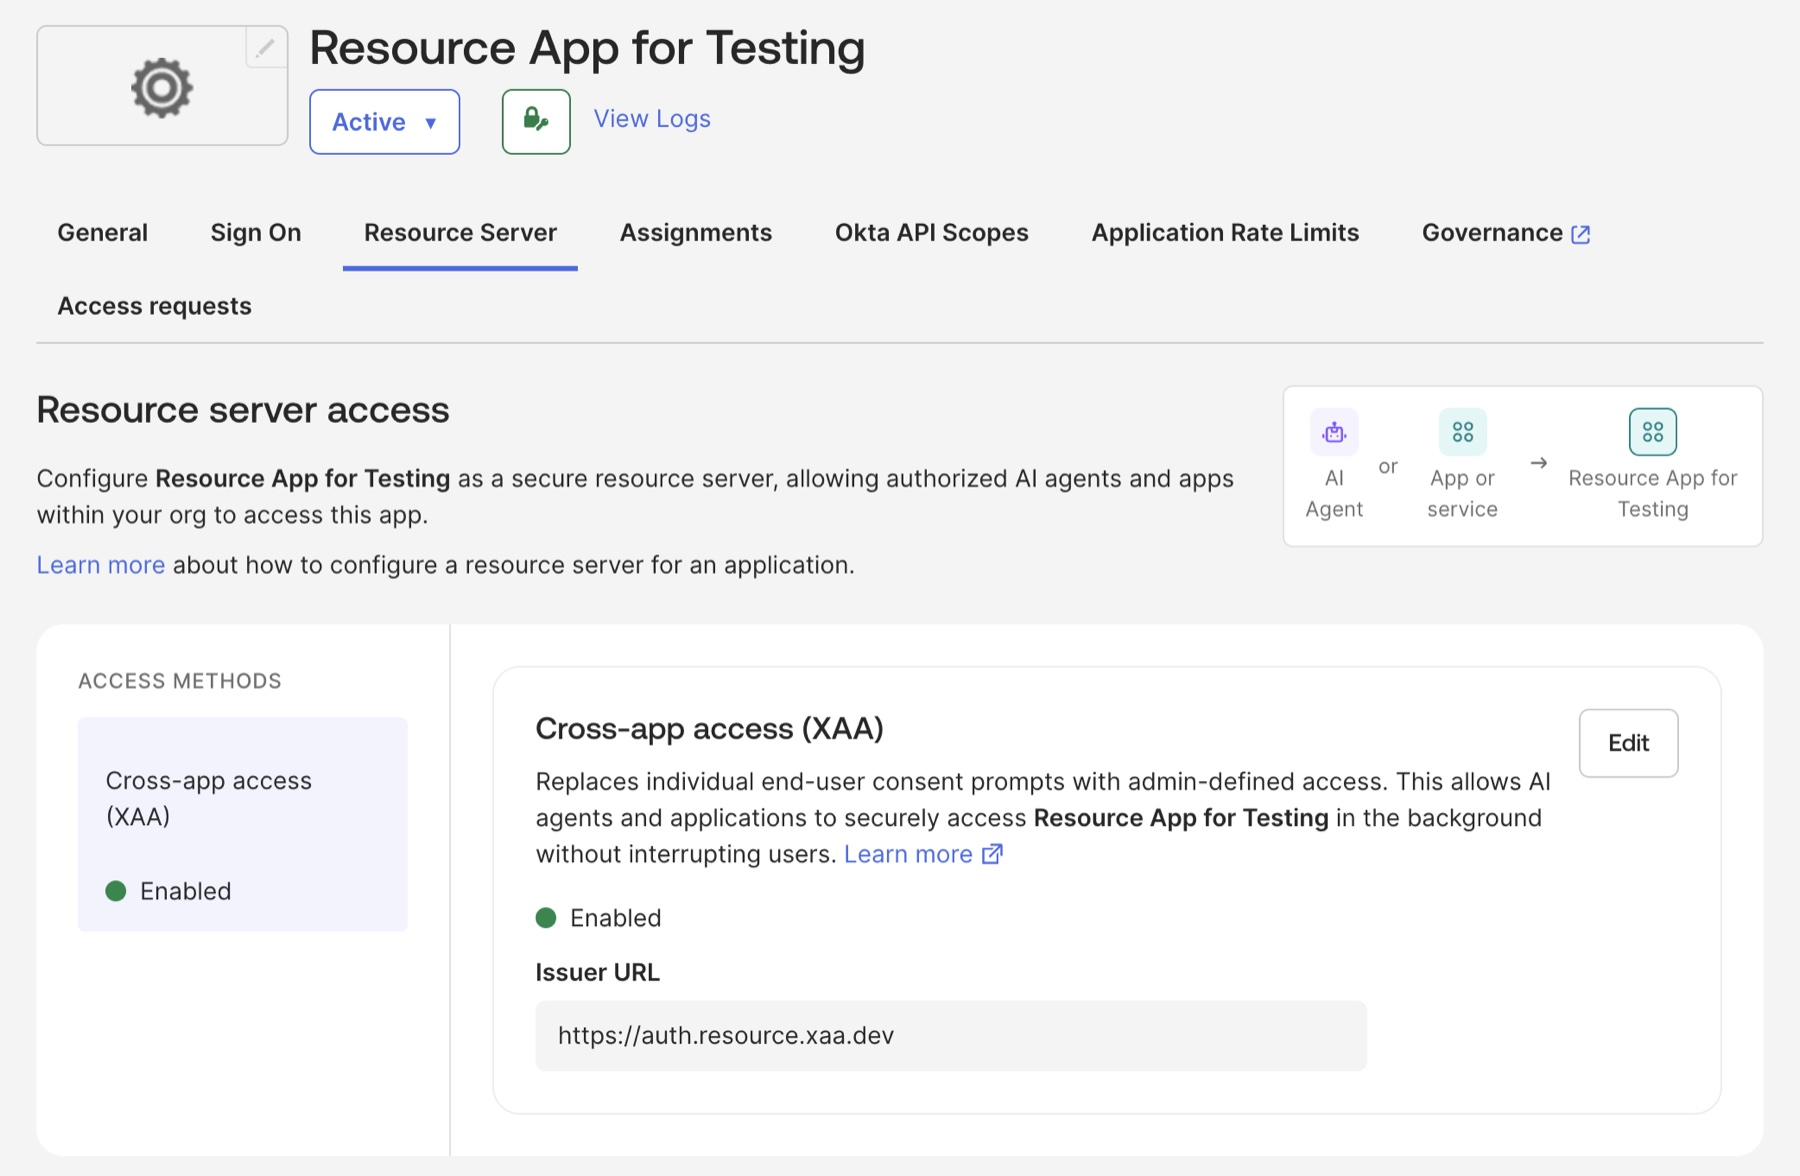
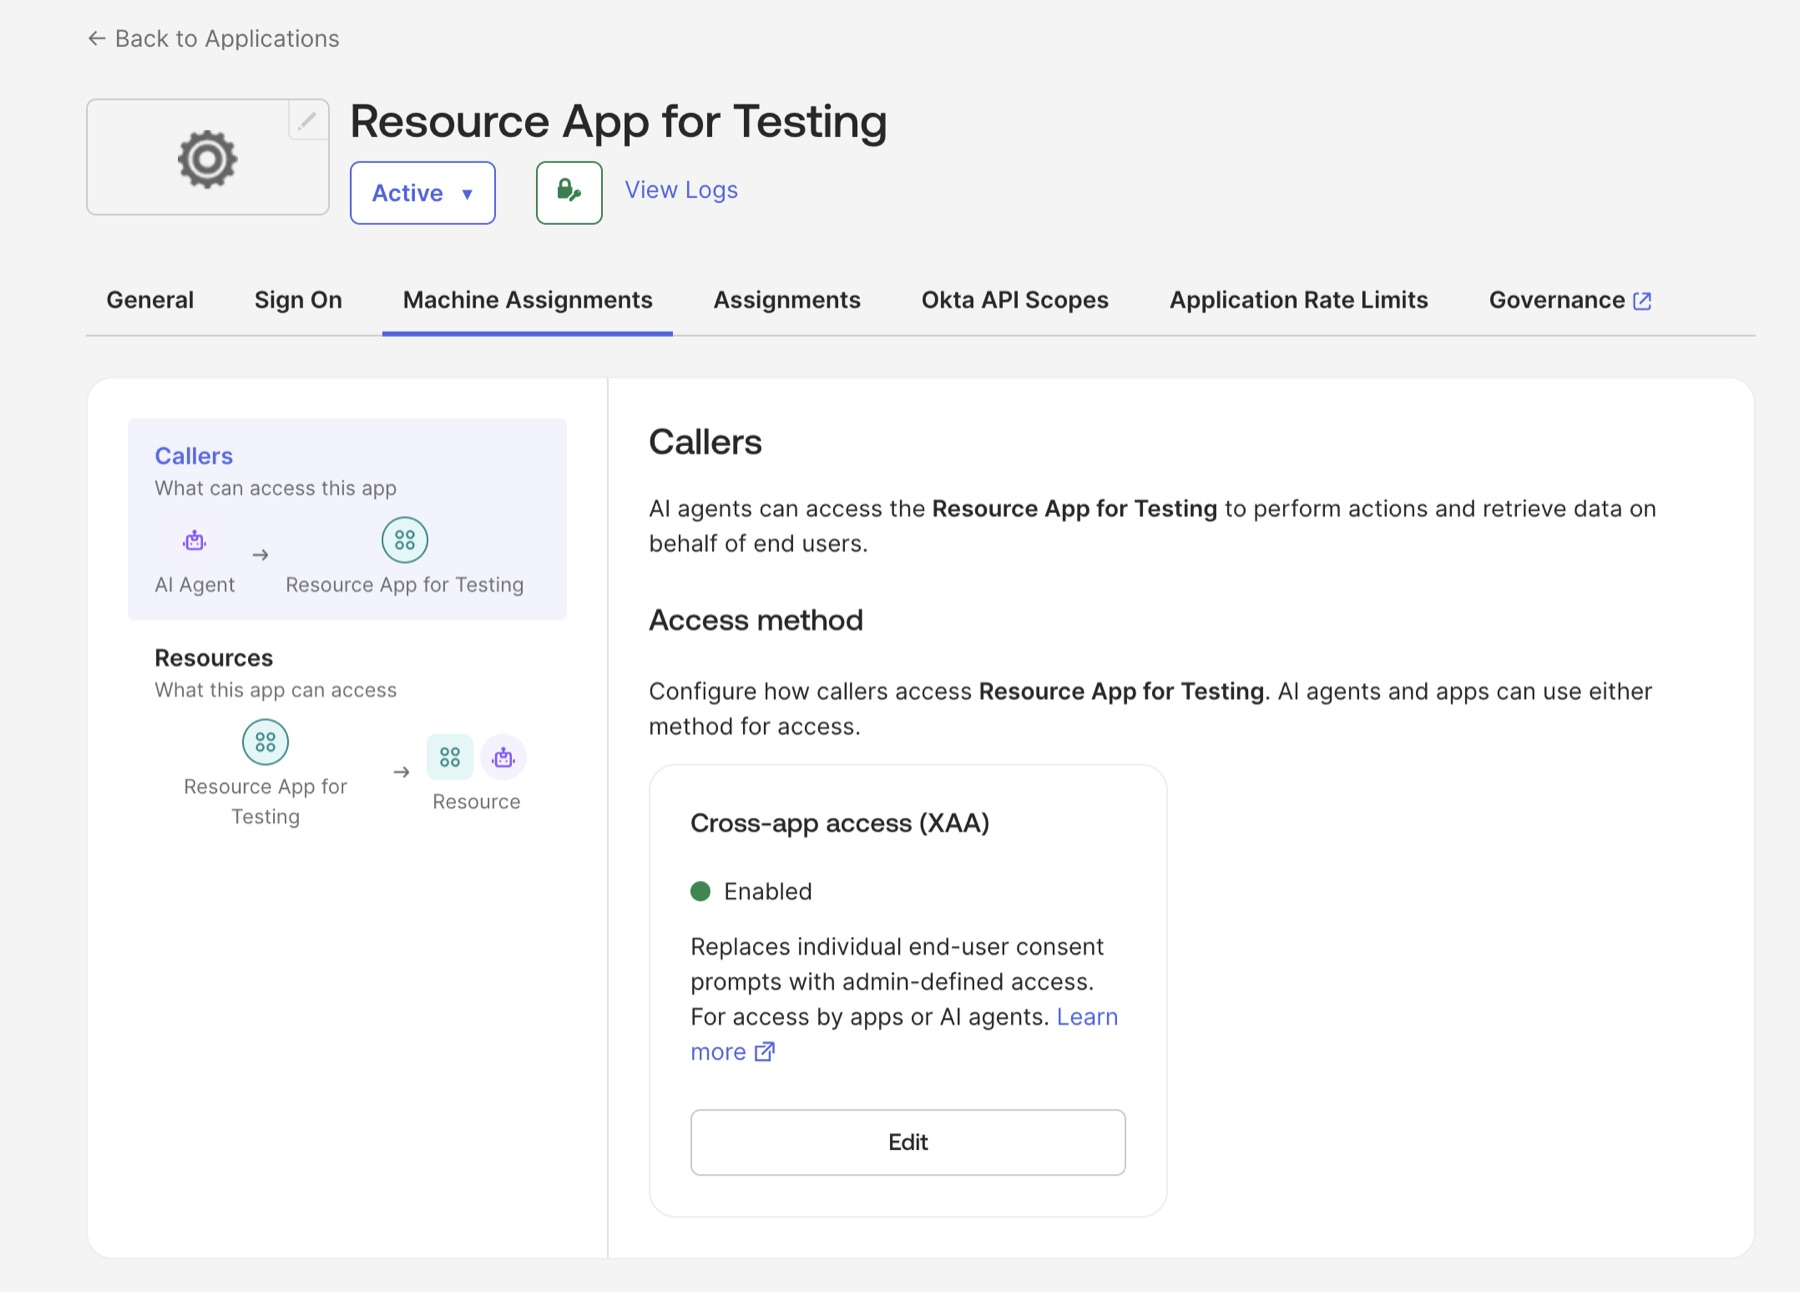
Rename Resource Server tab to Machine Assignments in XAA posts (#1721)
Rename Resource Server tab to Machine Assignments in XAA posts

diff --git a/_source/_posts/2026-08-24-xaa-oidc-resource.md b/_source/_posts/2026-08-24-xaa-oidc-resource.md
@@ -281,17 +281,25 @@ Create the resource app integration the same way you created the requesting app 
 
 * **App integration name**: "Resource App"
 * **Grant type**: Authorization Code
-* **Sign-in redirect URIs**: any valid placeholder URL. This app integration never performs an interactive login in this walkthrough; it only holds the Resource Server XAA configuration and the user assignment, and Okta requires the field to be non-empty. Don't reuse the xaa.dev URI here
+* **Sign-in redirect URIs**: any valid placeholder URL. This app integration never performs an interactive login in this walkthrough; it only holds the XAA configuration (on the **Machine Assignments** tab) and the user assignment, and Okta requires the field to be non-empty. Don't reuse the xaa.dev URI here
 * **Assignments**: keep **Skip group assignments for now**
 
 After creating the app integration, select the **General** tab to get the **Client ID** and **Client secret**. Use these credentials in your resource server.
 
-**Resource Server extra configuration**
+**Machine Assignments extra configuration**
 
-[Enable Cross App Access (XAA) on the resource app integration](https://developer.okta.com/docs/guides/xaa-agent-to-app/main/#enable-xaa-on-a-custom-app-integration) from the **Resource Server** tab, and configure:
+[Enable Cross App Access (XAA) on the resource app integration](https://developer.okta.com/docs/guides/xaa-agent-to-app/main/#enable-xaa-on-a-custom-app-integration):
+
 Note: The values here come from your test Requestor SSO App on xaa.dev.
-  1. **Issuer URL**: Your resource AS issuer URL, the issuer of the authorization server you run. Entering it here tells Okta which external server to mint ID-JAGs for; Okta doesn't host this server. This value becomes the `aud` claim in the ID-JAG and cannot change without deleting and resetting the connection.
-  2. **Audience/tenant ID**: This is optional and not needed for this walkthrough
+
+1. Select the **Machine Assignments** tab. **Callers** is selected by default.
+2. Under **Access method**, find the **Cross-app access (XAA)** card, which shows **Disabled**, and click **Edit**. The **Edit access method** panel opens on the right.
+3. Set the status dropdown to **Enabled**.
+4. Fill in the fields:
+    - **Issuer URL**: Your resource AS issuer URL, the issuer of the authorization server you run. Entering it here tells Okta which external server to mint ID-JAGs for; Okta doesn't host this server. This value becomes the `aud` claim in the ID-JAG and cannot change without deleting and resetting the connection.
+    - **Audience/tenant ID**: This is optional and not needed for this walkthrough
+    - **Scopes**: This is optional and not needed for this walkthrough
+5. Click **Save**.
 
 > ⚠ **Note**
 >
@@ -337,7 +345,7 @@ In xaa.dev, enter the following values:
 
 1. **Client ID**: Use the values from the AI Agent's client registration tab. 
 2. **Client Secret**: Use the values from the AI Agent's client registration tab.
-3. **Resource AS issuer (ID-JAG audience)**: Use your resource AS issuer URL. This must exactly match the **Issuer URL** you set on the resource app integration's Resource Server tab.
+3. **Resource AS issuer (ID-JAG audience)**: Use your resource AS issuer URL. This must exactly match the **Issuer URL** you set on the resource app integration's **Machine Assignments** tab.
 4. **Scopes**: Enter the scopes you want to request for the access token. For example, `chat:read chat:write`.
 5. Press **Save** to store the values.
 

diff --git a/_source/_posts/2026-08-21-xaa-oidc-requesting.md b/_source/_posts/2026-08-21-xaa-oidc-requesting.md
@@ -183,16 +183,22 @@ Create the Okta app integration representing the test resource app by following 
 
 Assign your test user to this app integration the same way you did for the requesting app integration above.
 
-**Resource Server extra configuration**
+**Machine Assignments extra configuration**
 
-[Enable Cross App Access (XAA) on this app integration](https://developer.okta.com/docs/guides/xaa-agent-to-app/main/#enable-xaa-on-a-custom-app-integration) from the **Resource Server** tab, and configure:
+[Enable Cross App Access (XAA) on this app integration](https://developer.okta.com/docs/guides/xaa-agent-to-app/main/#enable-xaa-on-a-custom-app-integration):
 
-  1. **Issuer URL**: Use `https://auth.resource.xaa.dev`. This is xaa.dev's resource authorization server, not yours. Entering it here tells Okta which external server to mint ID-JAGs for
-  2. **Audience/tenant ID**: This is optional and not needed for this walkthrough
+1. Select the **Machine Assignments** tab. **Callers** is selected by default.
+2. Under **Access method**, find the **Cross-app access (XAA)** card, which shows **Disabled**, and click **Edit**. The **Edit access method** panel opens on the right.
+3. Set the status dropdown to **Enabled**.
+4. Fill in the fields:
+    - **Issuer URL**: Use `https://auth.resource.xaa.dev`. This is xaa.dev's resource authorization server, not yours. Entering it here tells Okta which external server to mint ID-JAGs for
+    - **Audience/tenant ID**: This is optional and not needed for this walkthrough
+    - **Scopes**: This is optional and not needed for this walkthrough
+5. Click **Save**.
 
 > ⚠ **Note:** Use Audience/tenant ID when you have multiple tenants in your organization.
 
-{% img blog/xaa-oidc-requesting/resource-app-config.jpg alt:"Resource Server tab showing Cross-app access (XAA) enabled with Issuer URL configured." width:"1200" %}{: .center-image }
+{% img blog/xaa-oidc-requesting/resource-app-config.jpg alt:"Machine Assignments tab of Resource App for Testing showing the Cross-app access (XAA) card with an Enabled status." width:"1200" %}{: .center-image }
 
 With the test resource app integration configured in Okta, register your requesting app at xaa.dev next.
 

diff --git a/_source/_posts/2026-07-03-cross-app-access-saml.md b/_source/_posts/2026-07-03-cross-app-access-saml.md
@@ -274,12 +274,18 @@ It automatically discovers your SSO endpoint and token endpoint from the metadat
 
 [Assign your user](https://help.okta.com/oie/en-us/content/topics/provisioning/lcm/lcm-assign-app-user.htm) to the app on the **Assignments** tab.
 
-**Resource Server extra configuration**
+**Machine Assignments extra configuration**
 
-[Enable Cross App Access (XAA)](https://developer.okta.com/docs/guides/xaa-agent-to-app/main/#enable-xaa-on-a-custom-app-integration) on the resource app integration from the **Resource Server** tab, and configure:
+[Enable Cross App Access (XAA)](https://developer.okta.com/docs/guides/xaa-agent-to-app/main/#enable-xaa-on-a-custom-app-integration) on the resource app integration:
 
-   1. **Issuer URL**: Use your resource authorization server issuer URL. This value becomes the `aud` claim in the ID-JAG and cannot change without deleting and resetting the connection.
-   2. **Audience/tenant ID**: This is optional and not needed for this walkthrough
+1. Select the **Machine Assignments** tab. **Callers** is selected by default.
+2. Under **Access method**, find the **Cross-app access (XAA)** card, which shows **Disabled**, and click **Edit**. The **Edit access method** panel opens on the right.
+3. Set the status dropdown to **Enabled**.
+4. Fill in the fields:
+    - **Issuer URL**: Use your resource authorization server issuer URL. This value becomes the `aud` claim in the ID-JAG and cannot change without deleting and resetting the connection.
+    - **Audience/tenant ID**: This is optional and not needed for this walkthrough
+    - **Scopes**: This is optional and not needed for this walkthrough
+5. Click **Save**.
 
 > ⚠ **Note**
 >

diff --git a/_source/_posts/2026-07-17-xaa-saml-requester.md b/_source/_posts/2026-07-17-xaa-saml-requester.md
@@ -213,13 +213,19 @@ In **Configure SAML**:
 >
 > Please note that we're providing these for setup; they don't constitute a working SSO connection to the resource app. Also, don't assume the `NameID` is an email address; it is whatever the customer's SSO emits. Your matching set must remain consistent across your deployment.
 
-After creating the app, you'll see more configuration options for your Okta SAML 2.0 app. You'll make changes in the resource server tab.
+After creating the app, you'll see more configuration options for your Okta SAML 2.0 app. You'll make changes in the **Machine Assignments** tab.
 
-**Resource Server extra configuration**
+**Machine Assignments extra configuration**
 
-[Enable Cross App Access (XAA)](https://developer.okta.com/docs/guides/xaa-agent-to-app/main/#enable-xaa-on-a-custom-app-integration) on the resource app integration from the **Resource Server** tab, and configure:
+[Enable Cross App Access (XAA)](https://developer.okta.com/docs/guides/xaa-agent-to-app/main/#enable-xaa-on-a-custom-app-integration) on the resource app integration:
 
-   1. **Issuer URL**: https://auth.resource.xaa.dev
+1. Select the **Machine Assignments** tab. **Callers** is selected by default.
+2. Under **Access method**, find the **Cross-app access (XAA)** card, which shows **Disabled**, and click **Edit**. The **Edit access method** panel opens on the right.
+3. Set the status dropdown to **Enabled**.
+4. Fill in the fields:
+    - **Issuer URL**: https://auth.resource.xaa.dev
+    - **Scopes**: This is optional and not needed for this walkthrough
+5. Click **Save**.
 
 **Assignments configuration**
 
